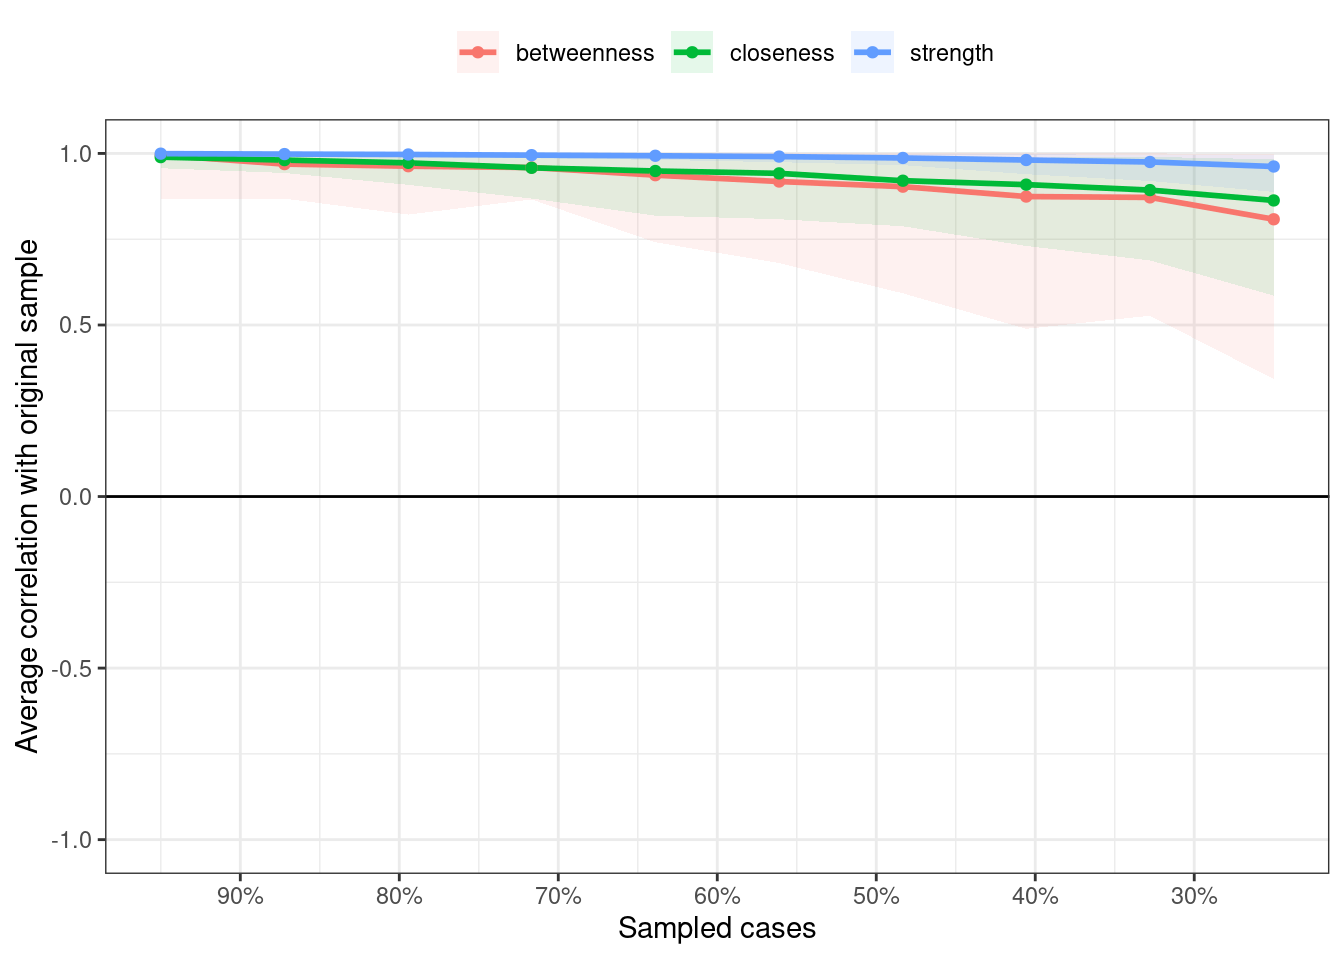
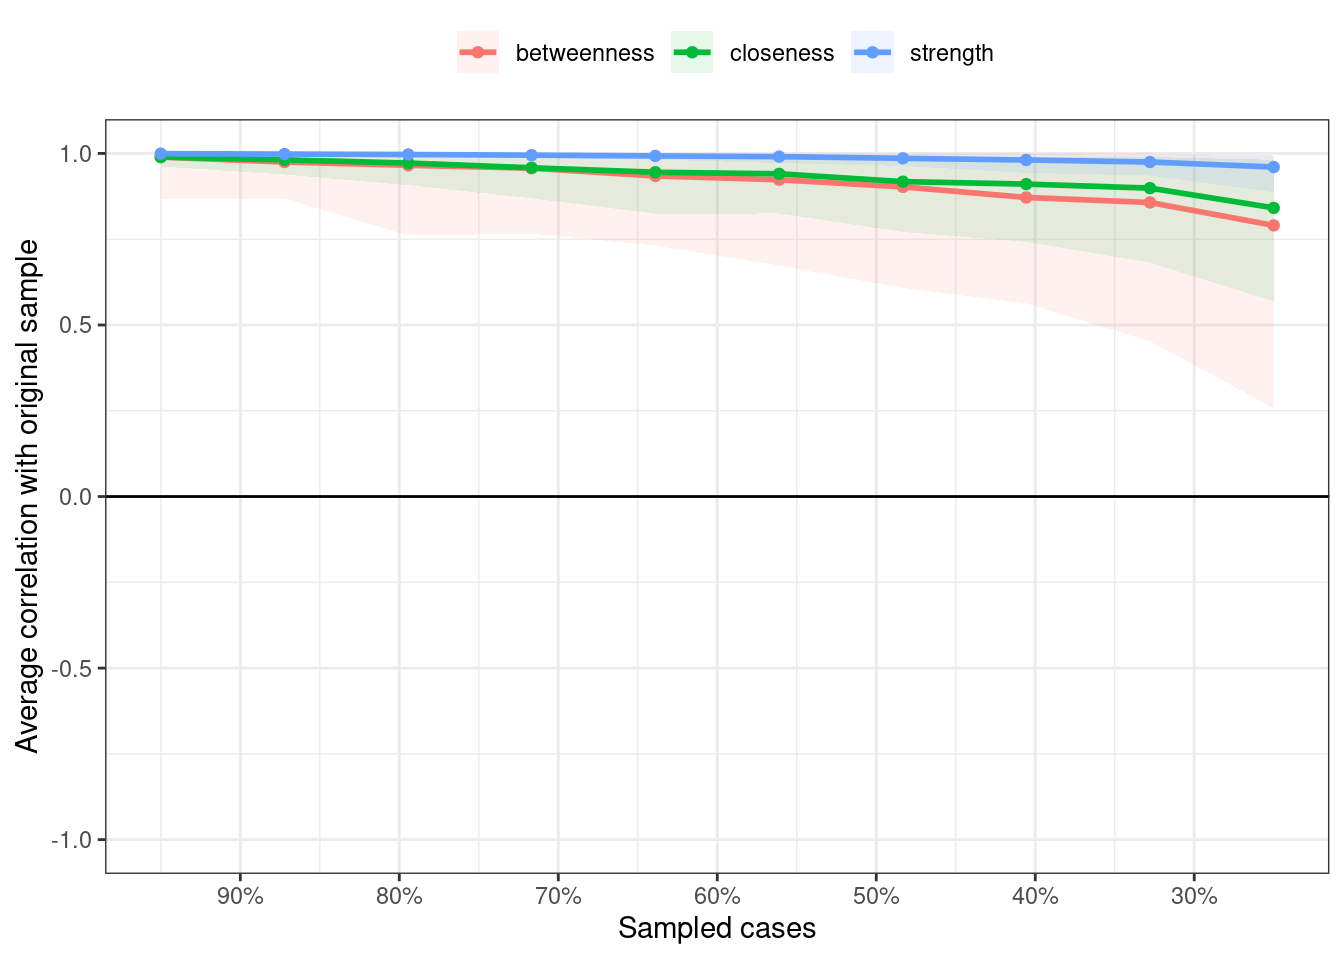
update

diff --git a/docs/how-to-psychological-network1.html b/docs/how-to-psychological-network1.html
@@ -388,17 +388,16 @@ div.tocify {
 
 <div id="心理ネットワークとは" class="section level2">
 <h2>心理ネットワークとは？</h2>
-<p>心理ネットワーク（精神病理ネットワーク）については，まずは以下の２つの論文を読んでください。以降は，その前提で，技術的な側面のみを解説します。</p>
+<p>心理ネットワーク（精神病理ネットワーク）については，まずは以下の２つの論文を読んでください。以降は，それを前提として，技術的な側面のみを解説します。</p>
 <ul>
 <li><a href="https://www.jstage.jst.go.jp/article/jjbct/advpub/0/advpub_20-015/_article/-char/ja/">樫原 潤・伊藤正哉(印刷中) 心理ネットワークアプローチがもたらす「臨床革命」—認知行動療法の文脈に基づく展望— 認知行動療法研究</a></li>
 <li><a href="https://www.jstage.jst.go.jp/article/sjpr/62/2/62_143/_article/-char/ja">樫原 潤(2019) 精神病理ネットワークの応用可能性―うつ病治療のテイラー化を促進するために― 心理学評論 62(2),143-165</a></li>
 </ul>
-<p>心理ネットワークとは，観察可能な変数を表すノードと統計的関係を表すエッジから構成されるものです(Epskamp, Borsboom &amp; Fried, 2018)。心理ネットワークモデルは，reflective latent variable models(SEMや因子分析などです)のように，潜在変数を仮定してそれから各項目・症状を説明するのではなく，症状間のネットワーク構造を検討します。</p>
+<p>心理ネットワークとは，観察可能な変数を表すノードと統計的関係を表すエッジから構成されるものです(Epskamp, Borsboom &amp; Fried, 2018　以下の内容は基本的にEpskamp et al., 2018に従っています)。心理ネットワークモデルは，因子分析やSEMなどのように潜在変数を仮定してそれから各項目・症状を説明するのではなく，症状（心理変数）間のネットワーク構造を検討します。</p>
 <p>心理ネットワークは，以下の図のように，観察可能な変数を表すノードは円で，関係を表すエッジは線でプロットされます。</p>
 <p><img src="fig/net01.png" /></p>
-</div>
-<div id="心理学的ネットワーク分析の手順" class="section level2">
-<h2>心理学的ネットワーク分析の手順</h2>
+<div id="心理学的ネットワーク分析の手順" class="section level3">
+<h3>心理学的ネットワーク分析の手順</h3>
 <p>心理ネットワーク分析は，おおよそ以下の４ステップからなります。</p>
 <ol style="list-style-type: decimal">
 <li>統計的手法によってノード間のエッジを推定する</li>
@@ -407,6 +406,7 @@ div.tocify {
 <li>ネットワークの精度の検討する</li>
 </ol>
 <p>ここで注意すべき点は，一般的なネットワーク科学で扱うネットワークの場合は，エッジは観察可能です（例えば，電力網ネットワークのエッジは直接観察・測定可能です）。しかし，心理ネットワークのエッジは，データから推定されます（重み付けネットワーク）。そのため，サンプルサイズの影響も受けますので，ネットワークのエッジの精度も検討する必要があります。また，ネットワーク科学では，グローバルなネットワーク特性の指標が使われます(small worldness, density, global clustering)。しかし，心理ネットワークのような重み付けネットワークでは使えません。そのため，２つのノードの関係や１つのノードがどのような影響力をもつのか（中心性の指標）といったローカルなネットワーク特性を用いることが多いです。</p>
+</div>
 <div id="有向ネットワークと無向ネットワーク" class="section level3">
 <h3>有向ネットワークと無向ネットワーク</h3>
 <p>心理ネットワークの話の前に，有向ネットワークと無向ネットワークについて説明をしておきます。まず，有向ネットワークとはエッジに方向性があるネットワークになります。以下の図ようにエッジが矢印になっているネットワークです。この矢印の方向には因果関係が想定されています。例えば，「活動性低下→抑うつ気分増加」となっていましたら，活動低下が原因で抑うつ気分増加するという意味になります。ただし，「活動性低下→抑うつ気分増加」と聞いて，「活動性低下←抑うつ気分増加」もありえるのではないかと感じた方もおられるかもしれません。そのとおりでして，因果関係を言うには，まず原因は結果に時間的に先行する必要がありますし，因果に関連する変数が全て測定された上で，原因と結果が巡回しない（非巡回）必要があります。観察研究によって収集された心理学のデータの場合，時間的な前後関係は時系列データによって示せても，非巡回となるとかなり難しいかと思います。そのため，横断データに対する心理ネットワークでは，エッジに方向性がない無向ネットワークが用いられます。</p>
@@ -414,55 +414,41 @@ div.tocify {
 </div>
 <div id="つのノードの関係エッジの符号" class="section level3">
 <h3>２つのノードの関係(エッジの符号)</h3>
-<p>横断データに対する心理ネットワークでは，エッジに方向性がない無向ネットワークが用いられます。</p>
-<ul>
-<li><p>エッジの色は符号を意味する（緑が正，赤が負）。</p></li>
-<li><p>エッジが正の場合は，２つのノード間には正の関係性が存在する（片方が増えると，もう一方も増える）</p></li>
-<li><p>エッジが負の場合は，２つのノード間には負の関係性が存在する（片方が増えると，もう一方は減る）</p></li>
-<li><p>エッジの太さは，強さを意味する。強さは，全体のノードを考慮しときの２つのノードの関係の強さになる。</p></li>
-<li><p>エッジの長さは，エッジの強さの逆数になる（強いほど短い）。</p></li>
-<li><p>パーティ会場で，関係性の近い２人のコミュニケーションは近い距離でなされるイメージ</p></li>
-</ul>
+<p>横断データに対する心理ネットワークでは，エッジに方向性がない無向ネットワークが用いられます。エッジの色は符号を意味していて，青もしくは緑の場合は正，赤の場合は負を表します。エッジが正（青色もしくは緑色）の場合は，２つのノード間には正の関係性が存在します（片方が増えると，もう一方も増える）。エッジが負（赤色）の場合は，２つのノード間には負の関係性が存在します（片方が増えると，もう一方は減る）。また，エッジの太さは，関係の強さを意味します。この場合の関係の強さとは，全体のノードからの影響を考慮した時の２つのノード間の関係の強さになります。そして，エッジの長さは，エッジの強さの逆数になります。つまり，ノード間の関係が強ければ強いほど，エッジの長さが短くなります。分かりやすいか微妙な例ですが，パーティ会場で関係性の近い２人のコミュニケーションは近い距離でなされるイメージをもつと良いかなと思います。</p>
+<p><img src="fig/net01.png" /></p>
+</div>
+<div id="ノードの中心性指標" class="section level3">
+<h3>ノードの中心性指標</h3>
+<p>心理ネットワークは，重み付けネットワークのため，その他のネットワークと違って，グローバルなネットワーク特性の指標（small worldness, density, global clustering）が使えません。そこで，各ノードの他のノードの影響性のようなローカルなネットワーク特性（中心性指標）を用います。そのようなローカルなネットワーク特性としては，strength，closeness，betweenessの３つがあります。</p>
+<div id="strength" class="section level4">
+<h4>Strength</h4>
+<p>Strength（重み付けのないネットワークの場合は，degreeと言う）は，あるノードがつながっている全てのエッジの強さを合計したものです。あるノードが他のノードとどのくらい強くつながっているのかを表す指標であり，そのノードの全体に対する影響力を表しているといえます。</p>
+<p>以下のようなネットワークを例にして，ノード１のStrengthを計算してみましょう。ノード1とノード2の間には，0.3の緑のエッジがあります。ノード1とノード3の間には，0.1の緑のエッジがあります。ノード1とノード6の間には，0.2の緑のエッジがあります。最後にノード1とノード4の間には，0.2の赤のエッジがあります。これらを合計した0.8がノード１のStrengthになります。ここの計算では，エッジの正負は問われません。なお，Strengthは接続しているノードの合計ですので，ノードが増えるほど大きくなるのでプロットする際には標準化されます。これは他の指標も同様です。</p>
 <p><img src="fig/net03.png" /></p>
 </div>
-<div id="ノードの中心性指標strengthclosenessbetweeness" class="section level3">
-<h3>ノードの中心性指標(strength，closeness，betweeness)</h3>
+<div id="closeness" class="section level4">
+<h4>closeness</h4>
+<p>Closenessは，あるノードと他の全てのノード間の最短経路長の合計の逆数になります。なにそれ？と思ったかもしれません。まず，ノード間の最短経路長とは，あるノードから別のノードまで最短距離でいける距離です。この距離というのは，エッジの強さの逆数になります。つまり，エッジの強さが0.1ならばその逆数は1/0.1で10になり，エッジの強さが0.5ならば1/0.5で2になります。最短経路長は，この距離を使って，あるノードから別のノードまでの距離を計算して，最も短い距離でいける距離を計算します。そして，あるノードへの他の全てのノードとの最短経路長を計算して，合計したものの逆数がClosenessになります。</p>
+<p>ちょっと具体例で計算してみましょう。以下の図で，ノード１からノード２まで ノード１と３のエッジの強さは0.1なので距離は10です。</p>
 <ul>
-<li><p>心理学的ネットワークは，重み付けネットワークのため，グローバルなネットワーク特性の指標がが使えない。</p></li>
-<li><p>各ノードの他のノードの影響性のようなローカルなネットワーク特性（中心性指標）を用いる。</p></li>
-</ul>
-<p><img src="fig/net05.png" /></p>
-</div>
-<div id="strength" class="section level3">
-<h3>Strength</h3>
-<ul>
-<li><p>Strength（重み付けのないネットワークの場合は，degreeと言う）は，あるノードがつながっている全てのエッジの強さを合計したものである。</p></li>
-<li><p>右の場合，1と2のエッジが.green[0.3], 1と3のエッジが.green[0.1],1と6のエッジが.green[0.2],1と4のエッジが.green[0.2]だったら，.green[0.8]となる。</p></li>
-<li><p>そのノードの全体に対する影響力を表している。</p></li>
-</ul>
-</div>
-<div id="closeness" class="section level3">
-<h3>closeness</h3>
-<ul>
-<li><p>Closenessは，あるノードと他の全てのノード間の最短経路長の合計の逆数である。</p></li>
-<li><p>エッジの強さの逆数が距離になる(1と3の強さが0.1なら10になる)。</p></li>
-<li><p>最短経路長は，この距離を使って，特定のノードから特定のノードまで最短で行ける距離を計算する(1と３は直接つながっているが，1と2が0.5,2と3が0.2なら合計は7になる。この場合は，間接経路が早い)。</p></li>
+<li>最短経路長は，この距離を使って，特定のノードから特定のノードまで最短で行ける距離を計算する(1と３は直接つながっているが，1と2が0.5,2と3が0.2なら合計は7になる。この場合は，間接経路が早い)。</li>
 </ul>
 <p>あるノードから他のノードまでの最短経路長を計算して合計したものの逆数がClosenessになる。</p>
 <ul>
 <li><p>Closenessは，あるノードがどのくらい.green[間接的に]他のノードとつながっているのか(Strengthは，あるノードがどのくらい.green[直説的に]他のノードとつながっているのか)。</p></li>
 <li><p>あるノードから他のノードの拡散の速さを表現する</p></li>
 </ul>
+<p><img src="fig/net03.png" /></p>
 </div>
-<div id="betweeness" class="section level3">
-<h3>betweeness</h3>
+<div id="betweeness" class="section level4">
+<h4>betweeness</h4>
 <ul>
 <li><p>Betweennessは，2つのノード間の最短経路上にあるノードが何回あるのかである。</p></li>
 <li><p>例えば，4と2の最短経路上に１がある。２つのノードの最短経路を計算して，その上にあるノードをカウントしていくとbetweenessになる。</p></li>
 <li><p>Betweennessは，2つの他のノードの接続においてどのくらい重要かを示す。影響性の流れを変える影響力をもつノードとして考えられる。</p></li>
 </ul>
-<p>以下のようにプロットされることが多い。</p>
-<p><img src="fig/net04.png" /></p>
+<p><img src="fig/net03.png" /></p>
+</div>
 </div>
 </div>
 <div id="gaussian-graphical-modelggm" class="section level2">
@@ -489,7 +475,7 @@ y_{C} \sim N(\mathbf{0}, \mathbf{\Sigma})
 <li>逆行列は，ｎ次正方行列Aに掛けた場合に以下のような単位行列Eとなるような行列のことである。</li>
 </ul>
 <p><span class="math display">\[\boldsymbol{E}=\left(\begin{array}{ll}1 &amp; 0 \\ 0 &amp; 1\end{array}\right)\]</span></p>
-<p>精度行列の具体例(Epskamp et al., 2018)</p>
+<p>精度行列の具体例 Epskamp, S., Waldorp, L. J., Mõttus, R., &amp; Borsboom, D. (2018)</p>
 <ul>
 <li>分散共分散行列( <span class="math inline">\(\mathbf{\Sigma}\)</span> ) のAを用意する。</li>
 </ul>
@@ -551,6 +537,7 @@ inv_A</code></pre>
 <li><p>GAD-7について項目反応理論を用いた検討を行った研究</p></li>
 <li><p>Hamburgのプライマリケアを受診した3404名からデータを収集している。</p></li>
 </ul>
+<p>以降では，樫原さんの<a href="https://ytake2.github.io/CBT_research_methodology/kashihara/">Kashihara_Ito_2020</a>も参考にしています。こちらも，是非とも参照ください。</p>
 <div id="使用するrパッケージとデータの読み込み" class="section level3">
 <h3>使用するRパッケージとデータの読み込み</h3>
 <pre class="r"><code>library(tidyverse)
@@ -648,21 +635,21 @@ plot(results_gad, layout = &quot;spring&quot;,labels = TRUE)</code></pre>
 ## 
 ## Sampling levels tested:
 ##    nPerson Drop%   n
-## 1      851  75.0 253
-## 2     1116  67.2 249
-## 3     1381  59.4 261
-## 4     1645  51.7 240
-## 5     1910  43.9 249
-## 6     2175  36.1 262
-## 7     2440  28.3 251
-## 8     2704  20.6 252
-## 9     2969  12.8 238
-## 10    3234   5.0 245
+## 1      851  75.0 230
+## 2     1116  67.2 264
+## 3     1381  59.4 235
+## 4     1645  51.7 269
+## 5     1910  43.9 257
+## 6     2175  36.1 228
+## 7     2440  28.3 249
+## 8     2704  20.6 253
+## 9     2969  12.8 236
+## 10    3234   5.0 279
 ## 
 ## Maximum drop proportions to retain correlation of 0.7 in at least 95% of the samples:
 ## 
-## betweenness: 0.517 
-##   - For more accuracy, run bootnet(..., caseMin = 0.439, caseMax = 0.594) 
+## betweenness: 0.439 
+##   - For more accuracy, run bootnet(..., caseMin = 0.361, caseMax = 0.517) 
 ## 
 ## closeness: 0.672 
 ##   - For more accuracy, run bootnet(..., caseMin = 0.594, caseMax = 0.75) 
@@ -733,59 +720,55 @@ res_nct</code></pre>
 <pre><code>## 
 ##  NETWORK INVARIANCE TEST 
 ##  Test statistic M:  0.1053291 
-##  p-value 0.32 
+##  p-value 0.26 
 ## 
 ##  GLOBAL STRENGTH INVARIANCE TEST 
 ##  Global strength per group:  2.99519 3.048776 
 ##  Test statistic S:  0.05358564 
-##  p-value 0.11 
+##  p-value 0.14 
 ## 
 ##  EDGE INVARIANCE TEST 
 ## 
 ##     Var1  Var2 p-value
-## 8  gad7a gad7b    0.81
-## 15 gad7a gad7c    0.69
-## 16 gad7b gad7c    0.79
-## 22 gad7a gad7d    0.65
-## 23 gad7b gad7d    0.59
-## 24 gad7c gad7d    0.81
-## 29 gad7a gad7e    0.01
-## 30 gad7b gad7e    0.92
+## 8  gad7a gad7b    0.82
+## 15 gad7a gad7c    0.65
+## 16 gad7b gad7c    0.80
+## 22 gad7a gad7d    0.77
+## 23 gad7b gad7d    0.69
+## 24 gad7c gad7d    0.82
+## 29 gad7a gad7e    0.03
+## 30 gad7b gad7e    0.97
 ## 31 gad7c gad7e    1.00
 ## 32 gad7d gad7e    0.73
-## 36 gad7a gad7f    0.40
-## 37 gad7b gad7f    0.18
-## 38 gad7c gad7f    0.57
-## 39 gad7d gad7f    0.81
-## 40 gad7e gad7f    0.82
-## 43 gad7a gad7g    0.83
-## 44 gad7b gad7g    0.25
-## 45 gad7c gad7g    0.30
-## 46 gad7d gad7g    0.38
+## 36 gad7a gad7f    0.42
+## 37 gad7b gad7f    0.17
+## 38 gad7c gad7f    0.55
+## 39 gad7d gad7f    0.82
+## 40 gad7e gad7f    0.81
+## 43 gad7a gad7g    0.67
+## 44 gad7b gad7g    0.12
+## 45 gad7c gad7g    0.24
+## 46 gad7d gad7g    0.44
 ## 47 gad7e gad7g    0.94
-## 48 gad7f gad7g    0.27
+## 48 gad7f gad7g    0.35
 ## 
 ##  CENTRALITY INVARIANCE TEST 
 ##  
 ##       strength expectedInfluence
-## gad7a     0.48              0.48
-## gad7b     0.65              0.65
-## gad7c     0.94              0.93
-## gad7d     0.29              0.29
-## gad7e     0.05              0.03
-## gad7f     0.41              0.41
-## gad7g     0.92              0.92</code></pre>
+## gad7a     0.50              0.50
+## gad7b     0.60              0.60
+## gad7c     0.94              0.94
+## gad7d     0.34              0.34
+## gad7e     0.04              0.03
+## gad7f     0.47              0.47
+## gad7g     0.99              0.99</code></pre>
 </div>
 <div id="文献" class="section level2">
 <h2>文献</h2>
 <ul>
 <li>Epskamp, S., Borsboom, D., &amp; Fried, E. I. (2018). Estimating psychological networks and their accuracy: A tutorial paper. Behavior Research Methods, 50(1), 195–212.</li>
 <li>Jordan, P., Shedden-Mora, M. C., &amp; Löwe, B. (2017). Psychometric analysis of the Generalized Anxiety Disorder scale (GAD-7) in primary care using modern item response theory. PloS One, 12(8), e0182162.</li>
-<li>Epskamp, S. (2020). Psychometric network models from time-series and panel data. Psychometrika, 85(1), 206–231.</li>
-<li>Epskamp, S., van Borkulo, C. D., van der Veen, D. C., Servaas, M. N., Isvoranu, A.-M., Riese, H., &amp; Cramer, A. O. J. (2018). Personalized Network Modeling in Psychopathology: The Importance of Contemporaneous and Temporal Connections. Clinical Psychological Science, 6(3), 416–427.</li>
 <li>Epskamp, S., Waldorp, L. J., Mõttus, R., &amp; Borsboom, D. (2018). The Gaussian Graphical Model in Cross-Sectional and Time-Series Data. Multivariate Behavioral Research, 53(4), 453–480.</li>
-<li>Aalbers, G., McNally, R. J., Heeren, A., de Wit, S., &amp; Fried, E. I. (2019). Social media and depression symptoms: A network perspective. Journal of Experimental Psychology. General, 148(8), 1454–1462.</li>
-<li>Beard, C., Millner, A. J., Forgeard, M. J. C., Fried, E. I., Hsu, K. J., Treadway, M. T., Leonard, C. V., Kertz, S. J., &amp; Björgvinsson, T. (2016). Network analysis of depression and anxiety symptom relationships in a psychiatric sample. Psychological Medicine, 46(16), 3359–3369.</li>
 </ul>
 </div>
 
